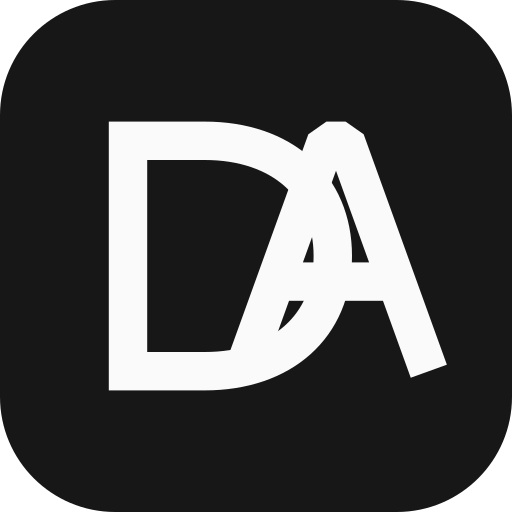
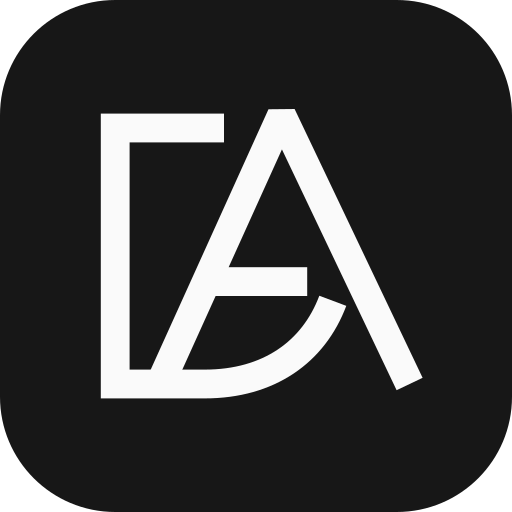
refactor: refine interwoven DA mark and simplify brand signature

Changed region(s): [[0.1875, 0.1875, 0.875, 0.7812]]

diff --git a/src/components/brand.tsx b/src/components/brand.tsx
@@ -8,9 +8,8 @@ export function BrandMark({ className = "size-10" }: { className?: string }) {
 export function BrandLogo() {
   return <span className="inline-flex items-center gap-3 text-foreground" aria-label={siteConfig.name}>
     <BrandMark />
-    <span aria-hidden="true" className="flex flex-col font-heading leading-none">
-      <span className="text-[1.05rem] font-semibold tracking-[-0.055em]">David Aranda<span className="text-muted-foreground">.</span></span>
-      <span className="mt-1.5 font-mono text-[0.55rem] tracking-[0.17em] uppercase">davidaranda.dev</span>
+    <span aria-hidden="true" className="font-heading text-[1.05rem] font-medium leading-none tracking-[-0.045em]">
+      David Aranda<span className="text-muted-foreground">.</span>
     </span>
   </span>;
 }

diff --git a/docs/brand.md b/docs/brand.md
@@ -1,12 +1,13 @@
 # David Aranda — identidad visual
 
 Marca monocromática coherente con el portafolio: carbón `#171717`, blanco
-`#fafafa`, nombre en Geist y dominio en monoespaciada. La firma abreviada
+`#fafafa` y nombre en Geist de peso medio, sin dominio ni descriptor. La firma abreviada
 «David Aranda.» conserva el nombre completo en la etiqueta accesible.
 
-El isotipo combina la curva de la D con la diagonal y el travesaño de la A.
-Ambas letras se entrelazan sobre una cuadrícula de 64 unidades; su trazo de
-6 unidades permite reconocer la silueta a tamaños pequeños.
+El isotipo combina la curva de la D con una A de vértice elevado. Los cortes
+en la curva superior y el travesaño dejan respirar los cruces: las letras
+se entrelazan sin formar una mancha sólida. La cuadrícula es de 64 unidades
+y el trazo de 4,5 unidades. El imagotipo reúne este símbolo con el nombre.
 
 ## Aplicaciones
 
